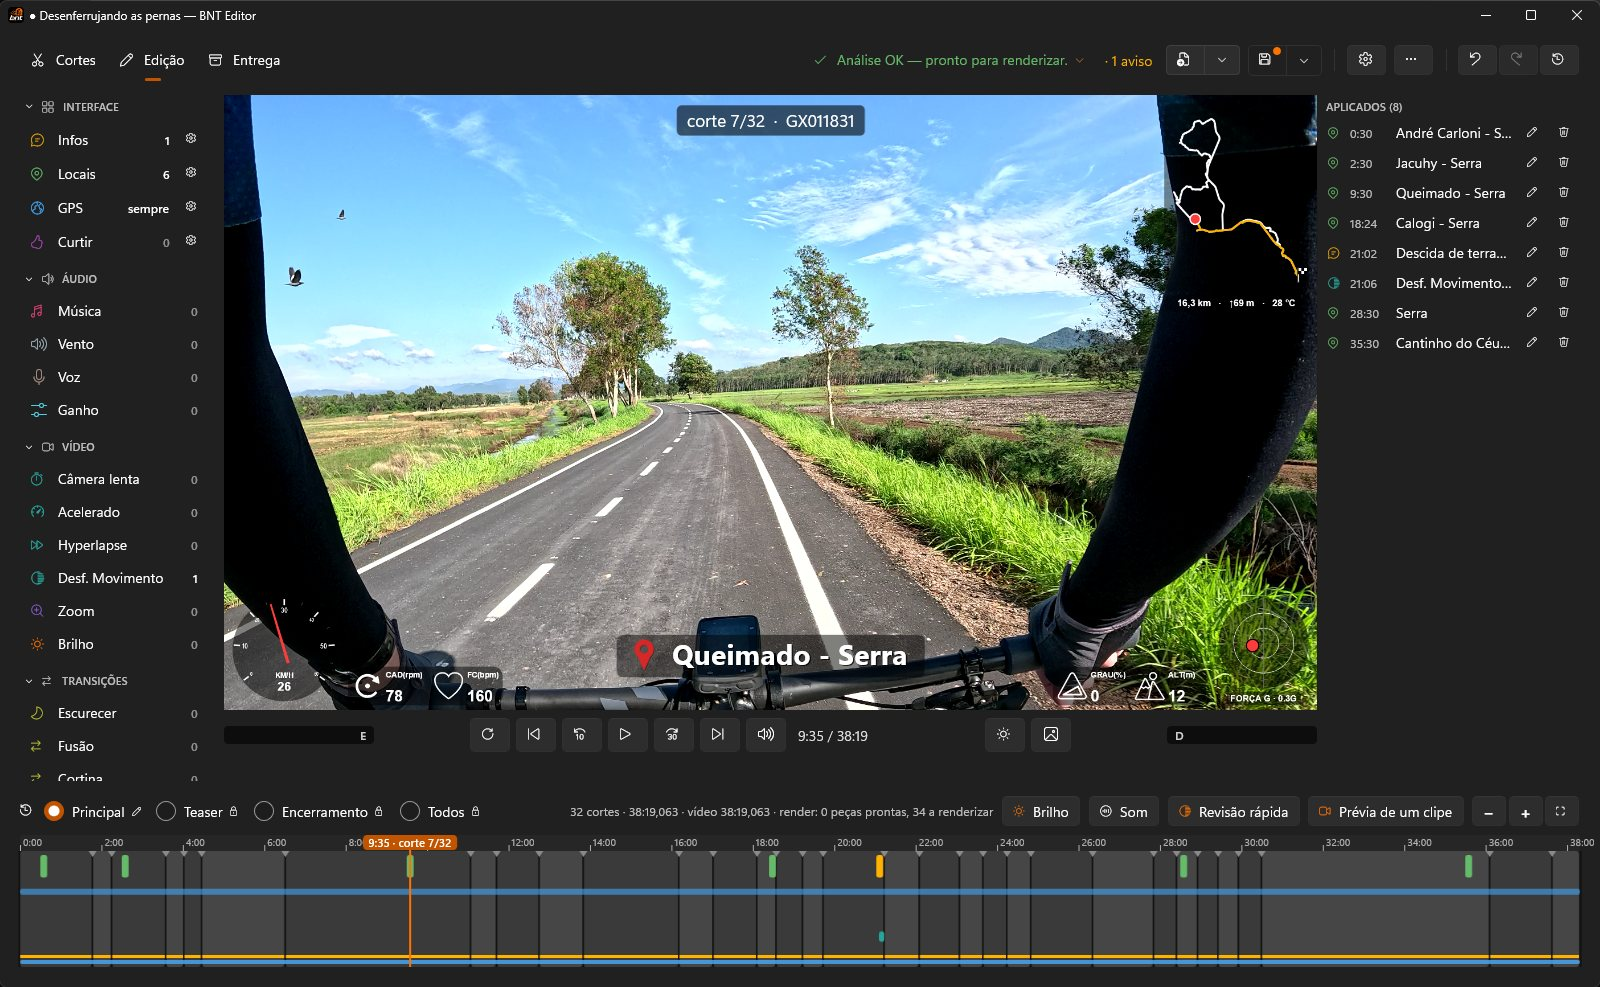
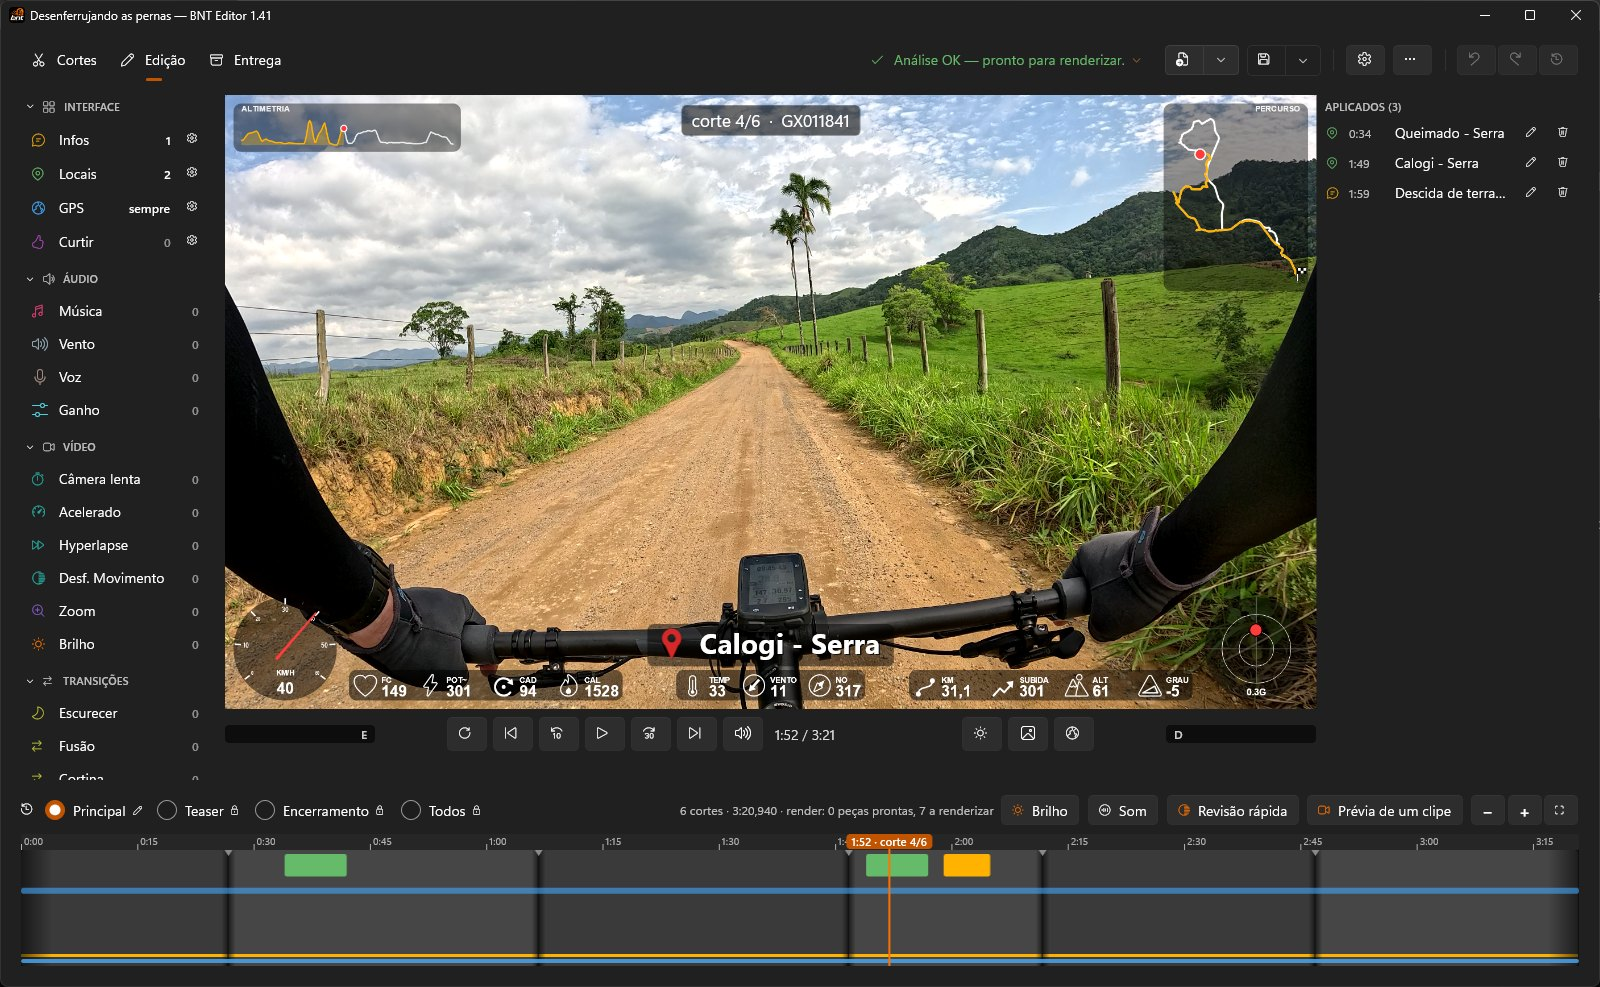
Página do BNT Editor: capturas de tela novas (painel com potência, calorias, vento, rumo e gráfico de altitude; Cortes com Copiar ou mover; Entrega)
As imagens vêm de uma cópia isolada com trechos curtos dos originais, sem pessoas identificáveis, e com título, descrição e links neutros.

Claude-Session: https://claude.ai/code/session_01RbmTk4CorJZi3dW3rrLjxR

diff --git a/bnteditor/index.html b/bnteditor/index.html
@@ -187,7 +187,7 @@
       </div>
     </div>
     <div class="janela">
-      <picture><source srcset="edicao-localizacao.webp" type="image/webp"><img decoding="async" src="edicao-localizacao.jpg" width="1600" height="987" alt="Aba Edição do BNT Editor: o player mostra um trecho de trilha com o painel de GPS e o nome do lugar sobre a imagem; à esquerda ficam os botões de itens e efeitos, à direita a lista do que já foi aplicado, e a timeline do vídeo inteiro aparece embaixo"></picture>
+      <picture><source srcset="edicao-localizacao.webp" type="image/webp"><img decoding="async" src="edicao-localizacao.jpg" width="1600" height="987" alt="Aba Edição do BNT Editor: o player mostra uma estrada de terra com o nome do lugar e o painel de GPS sobre a imagem, com velocímetro, batimentos, potência, cadência, calorias, temperatura, vento, rumo, distância, subida, altitude e inclinação, o minimapa e o gráfico de altitude nos cantos; à esquerda ficam os botões de itens e efeitos, à direita a lista do que já foi aplicado, e a timeline do vídeo aparece embaixo"></picture>
     </div>
   </div>
 
@@ -214,8 +214,8 @@
           <figcaption><strong>Cortes.</strong> O player toca direto o arquivo bruto, com a forma de onda do som e o trecho do corte em laranja. À direita, a lista de cortes com arquivo, entrada, saída e duração, e a faixa no alto mostra todos os cortes da parte lado a lado. O botão <strong>Importar brutos</strong> traz os arquivos da pasta, da GoPro ou do celular.</figcaption>
         </figure>
         <figure>
-          <picture><source srcset="edicao-localizacao.webp" type="image/webp"><img decoding="async" src="edicao-localizacao.jpg" width="1600" height="987" loading="lazy" alt="Edição com o nome do lugar sobre o vídeo e o painel de GPS com velocímetro, inclinação, altitude e minimapa"></picture>
-          <figcaption><strong>Localização e painel de GPS.</strong> O nome do lugar vem do GPS, e o painel mostra velocidade, cadência, batimentos, inclinação, altitude, força G e o mapa do percurso, com distância, subida e temperatura. Nas versões novas entram também potência, calorias, vento, rumo e o gráfico de altitude.</figcaption>
+          <picture><source srcset="edicao-localizacao.webp" type="image/webp"><img decoding="async" src="edicao-localizacao.jpg" width="1600" height="987" loading="lazy" alt="Edição com o nome do lugar sobre o vídeo e o painel de GPS com velocímetro, batimentos, potência, cadência, calorias, temperatura, vento, rumo, distância, subida, altitude e inclinação, o minimapa e o gráfico de altitude"></picture>
+          <figcaption><strong>Localização e painel de GPS.</strong> O nome do lugar vem do GPS, e o painel mostra velocidade, batimentos, potência estimada, cadência, calorias, temperatura, vento, rumo, distância, subida, altitude, inclinação e força G, com o mapa do percurso e o gráfico de altitude nos cantos de cima.</figcaption>
         </figure>
         <figure>
           <picture><source srcset="edicao-informacao.webp" type="image/webp"><img decoding="async" src="edicao-informacao.jpg" width="1600" height="987" loading="lazy" alt="Edição com um texto de informação no terço inferior do vídeo e a timeline com as marcas coloridas"></picture>
